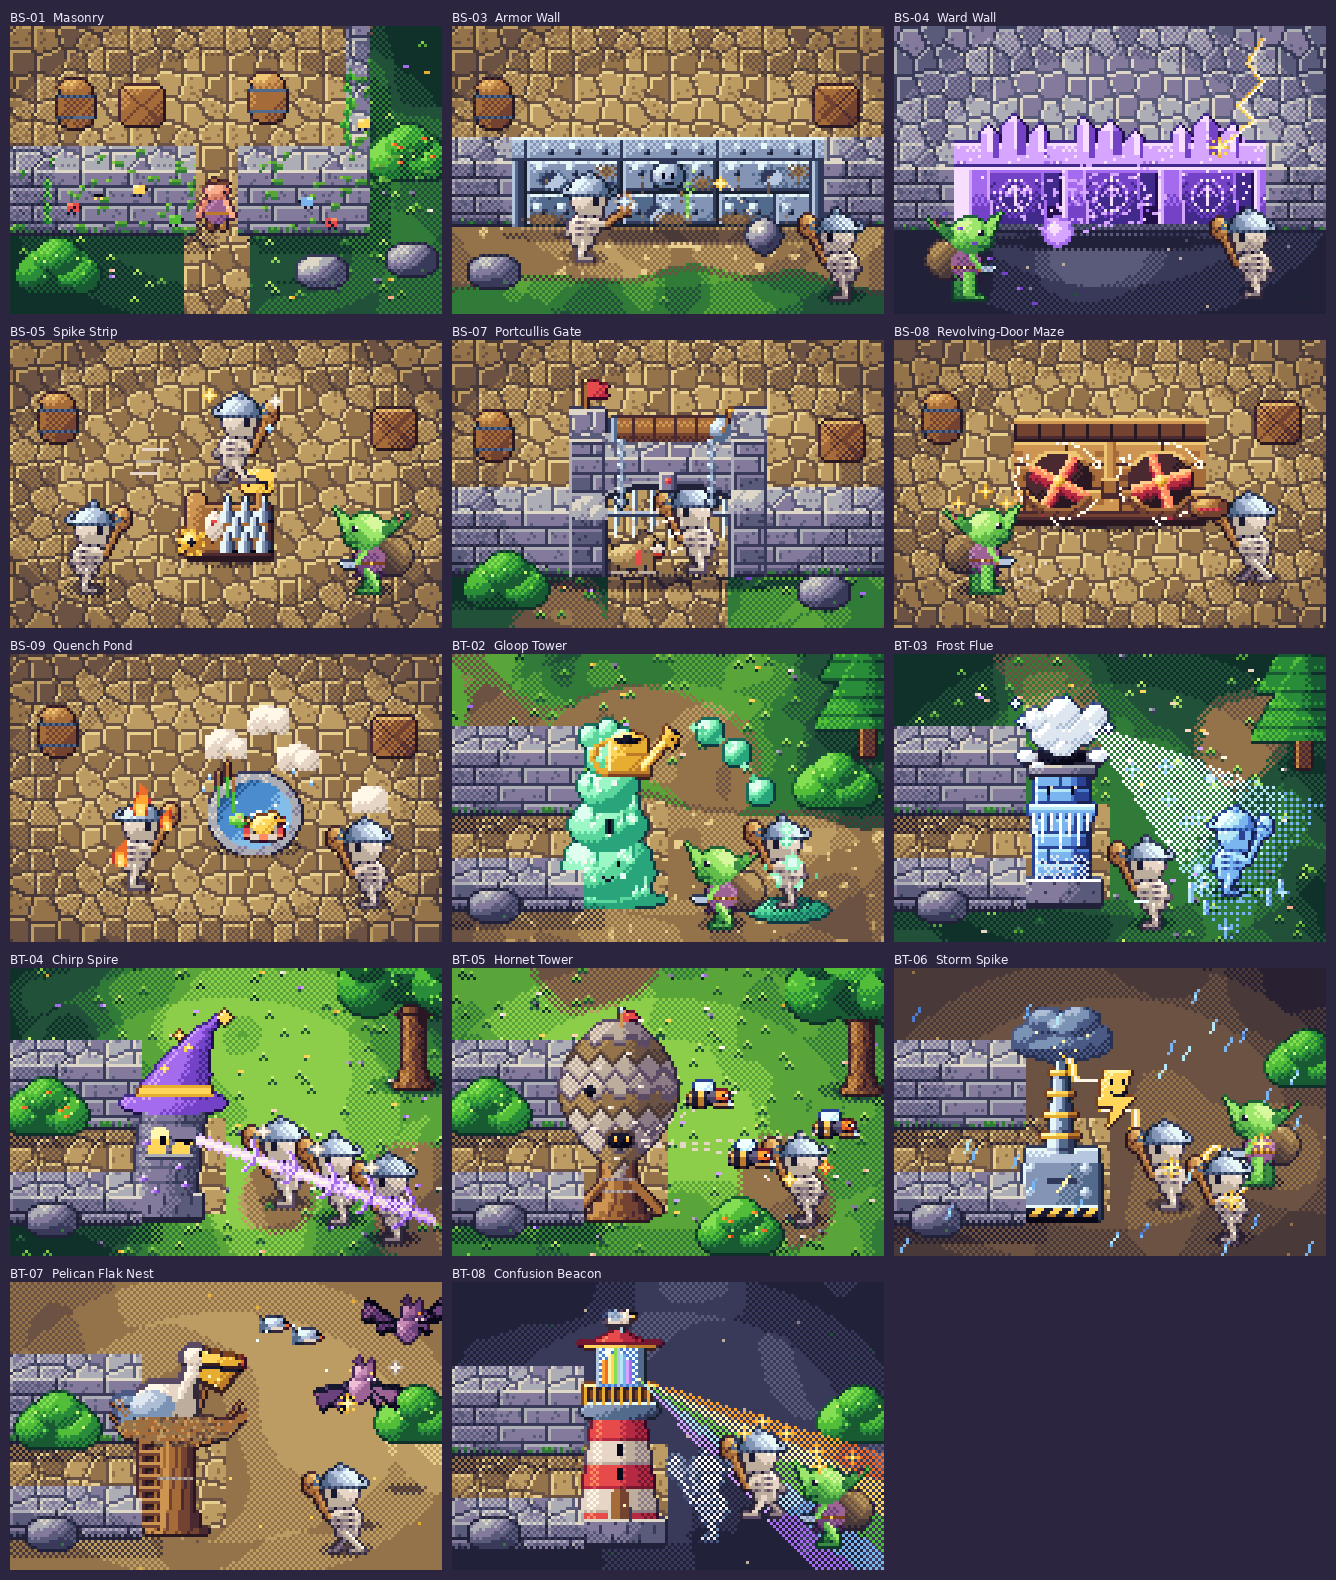
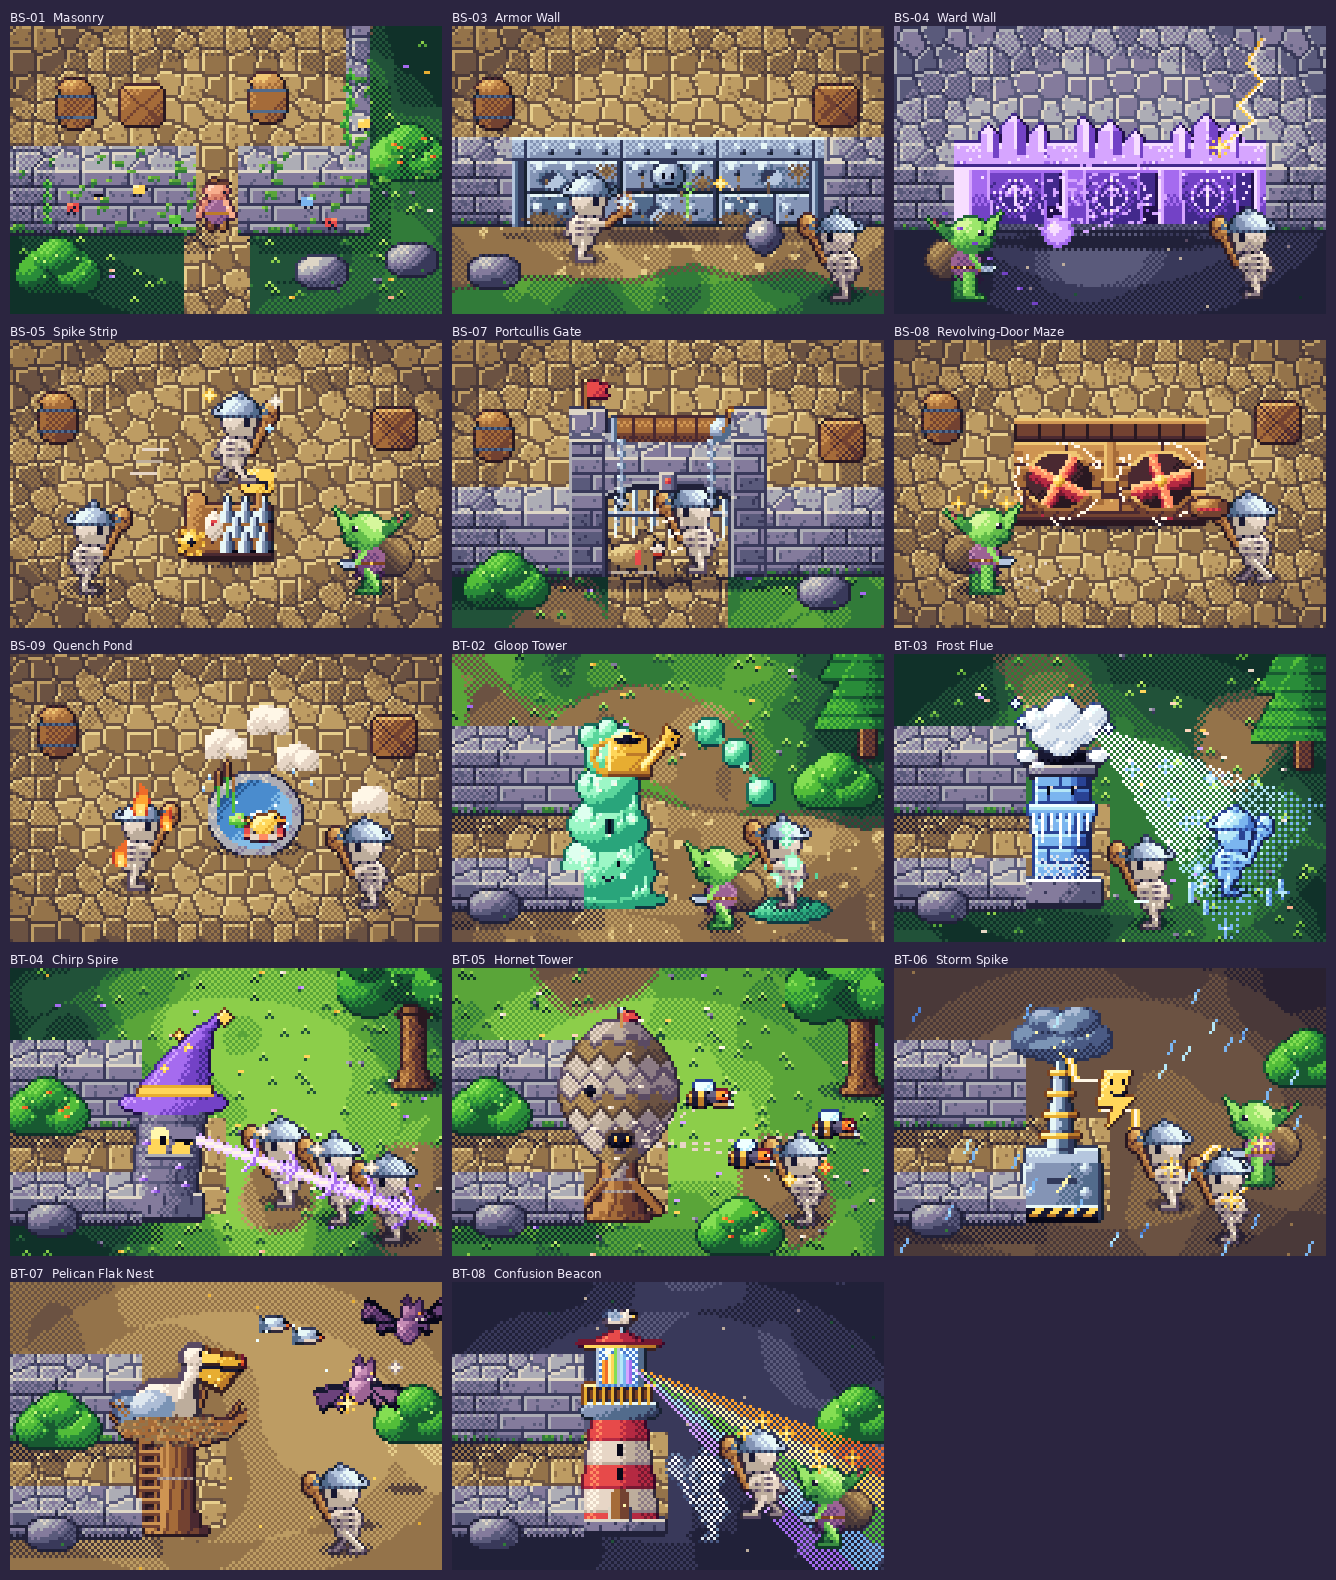
Zwischenstand: Illustrations-Packs 7 und 8 in Arbeit
Claude-Session: https://claude.ai/code/session_01JDx43Amq4CkeoPVSoFPfb3

diff --git a/BastionBlasters/art/pack_art7.py b/BastionBlasters/art/pack_art7.py
@@ -640,11 +640,11 @@ def _art_bt07():
 
 @card_art('BT-08')
 def _art_bt08():
-    t = TW('dark', 11, confusion_beacon(), y0=10)
+    t = TW('dark', 11, confusion_beacon())
     for (sp, x, y) in ((rock(2), 14, 90), (bush(2), 136, 54)):
         t.prop(sp, x, y)
-    apex = (60, 31)
-    ang0 = math.radians(32)
+    apex = (60, 28)
+    ang0 = math.radians(33)
     half = math.radians(15)
     L = 110
     pA = (apex[0] + math.cos(ang0 - half) * L, apex[1] + math.sin(ang0 - half) * L)
